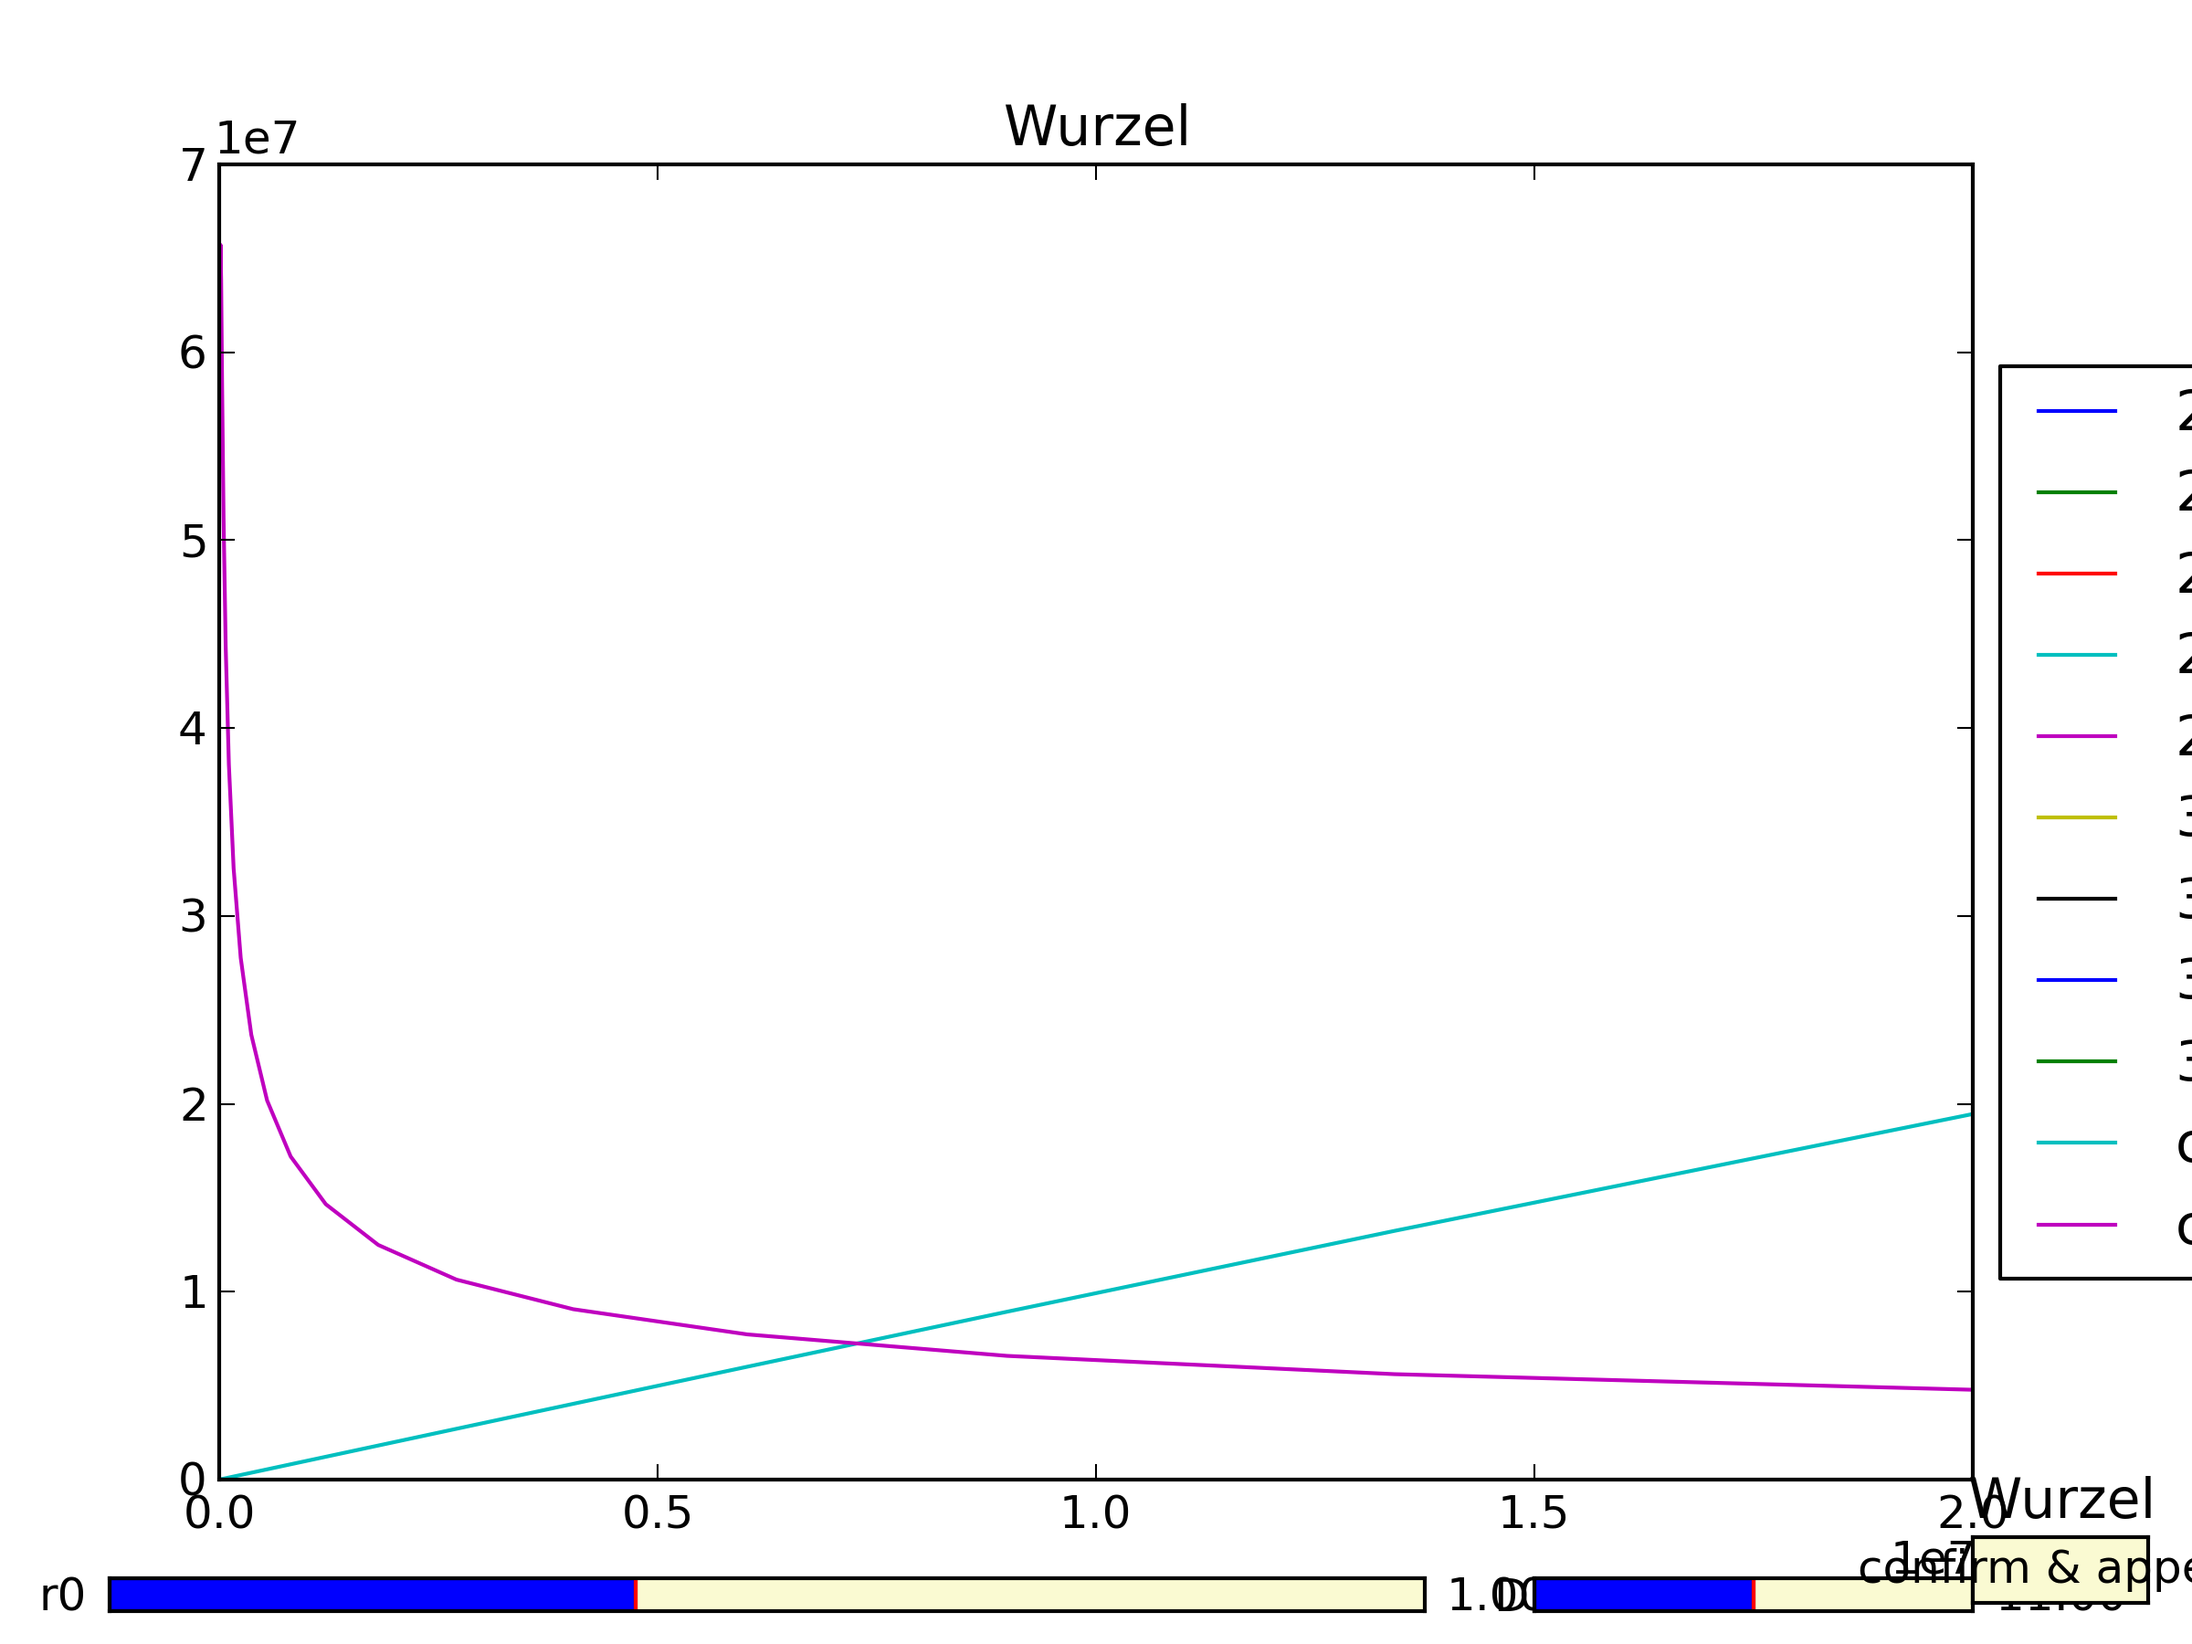
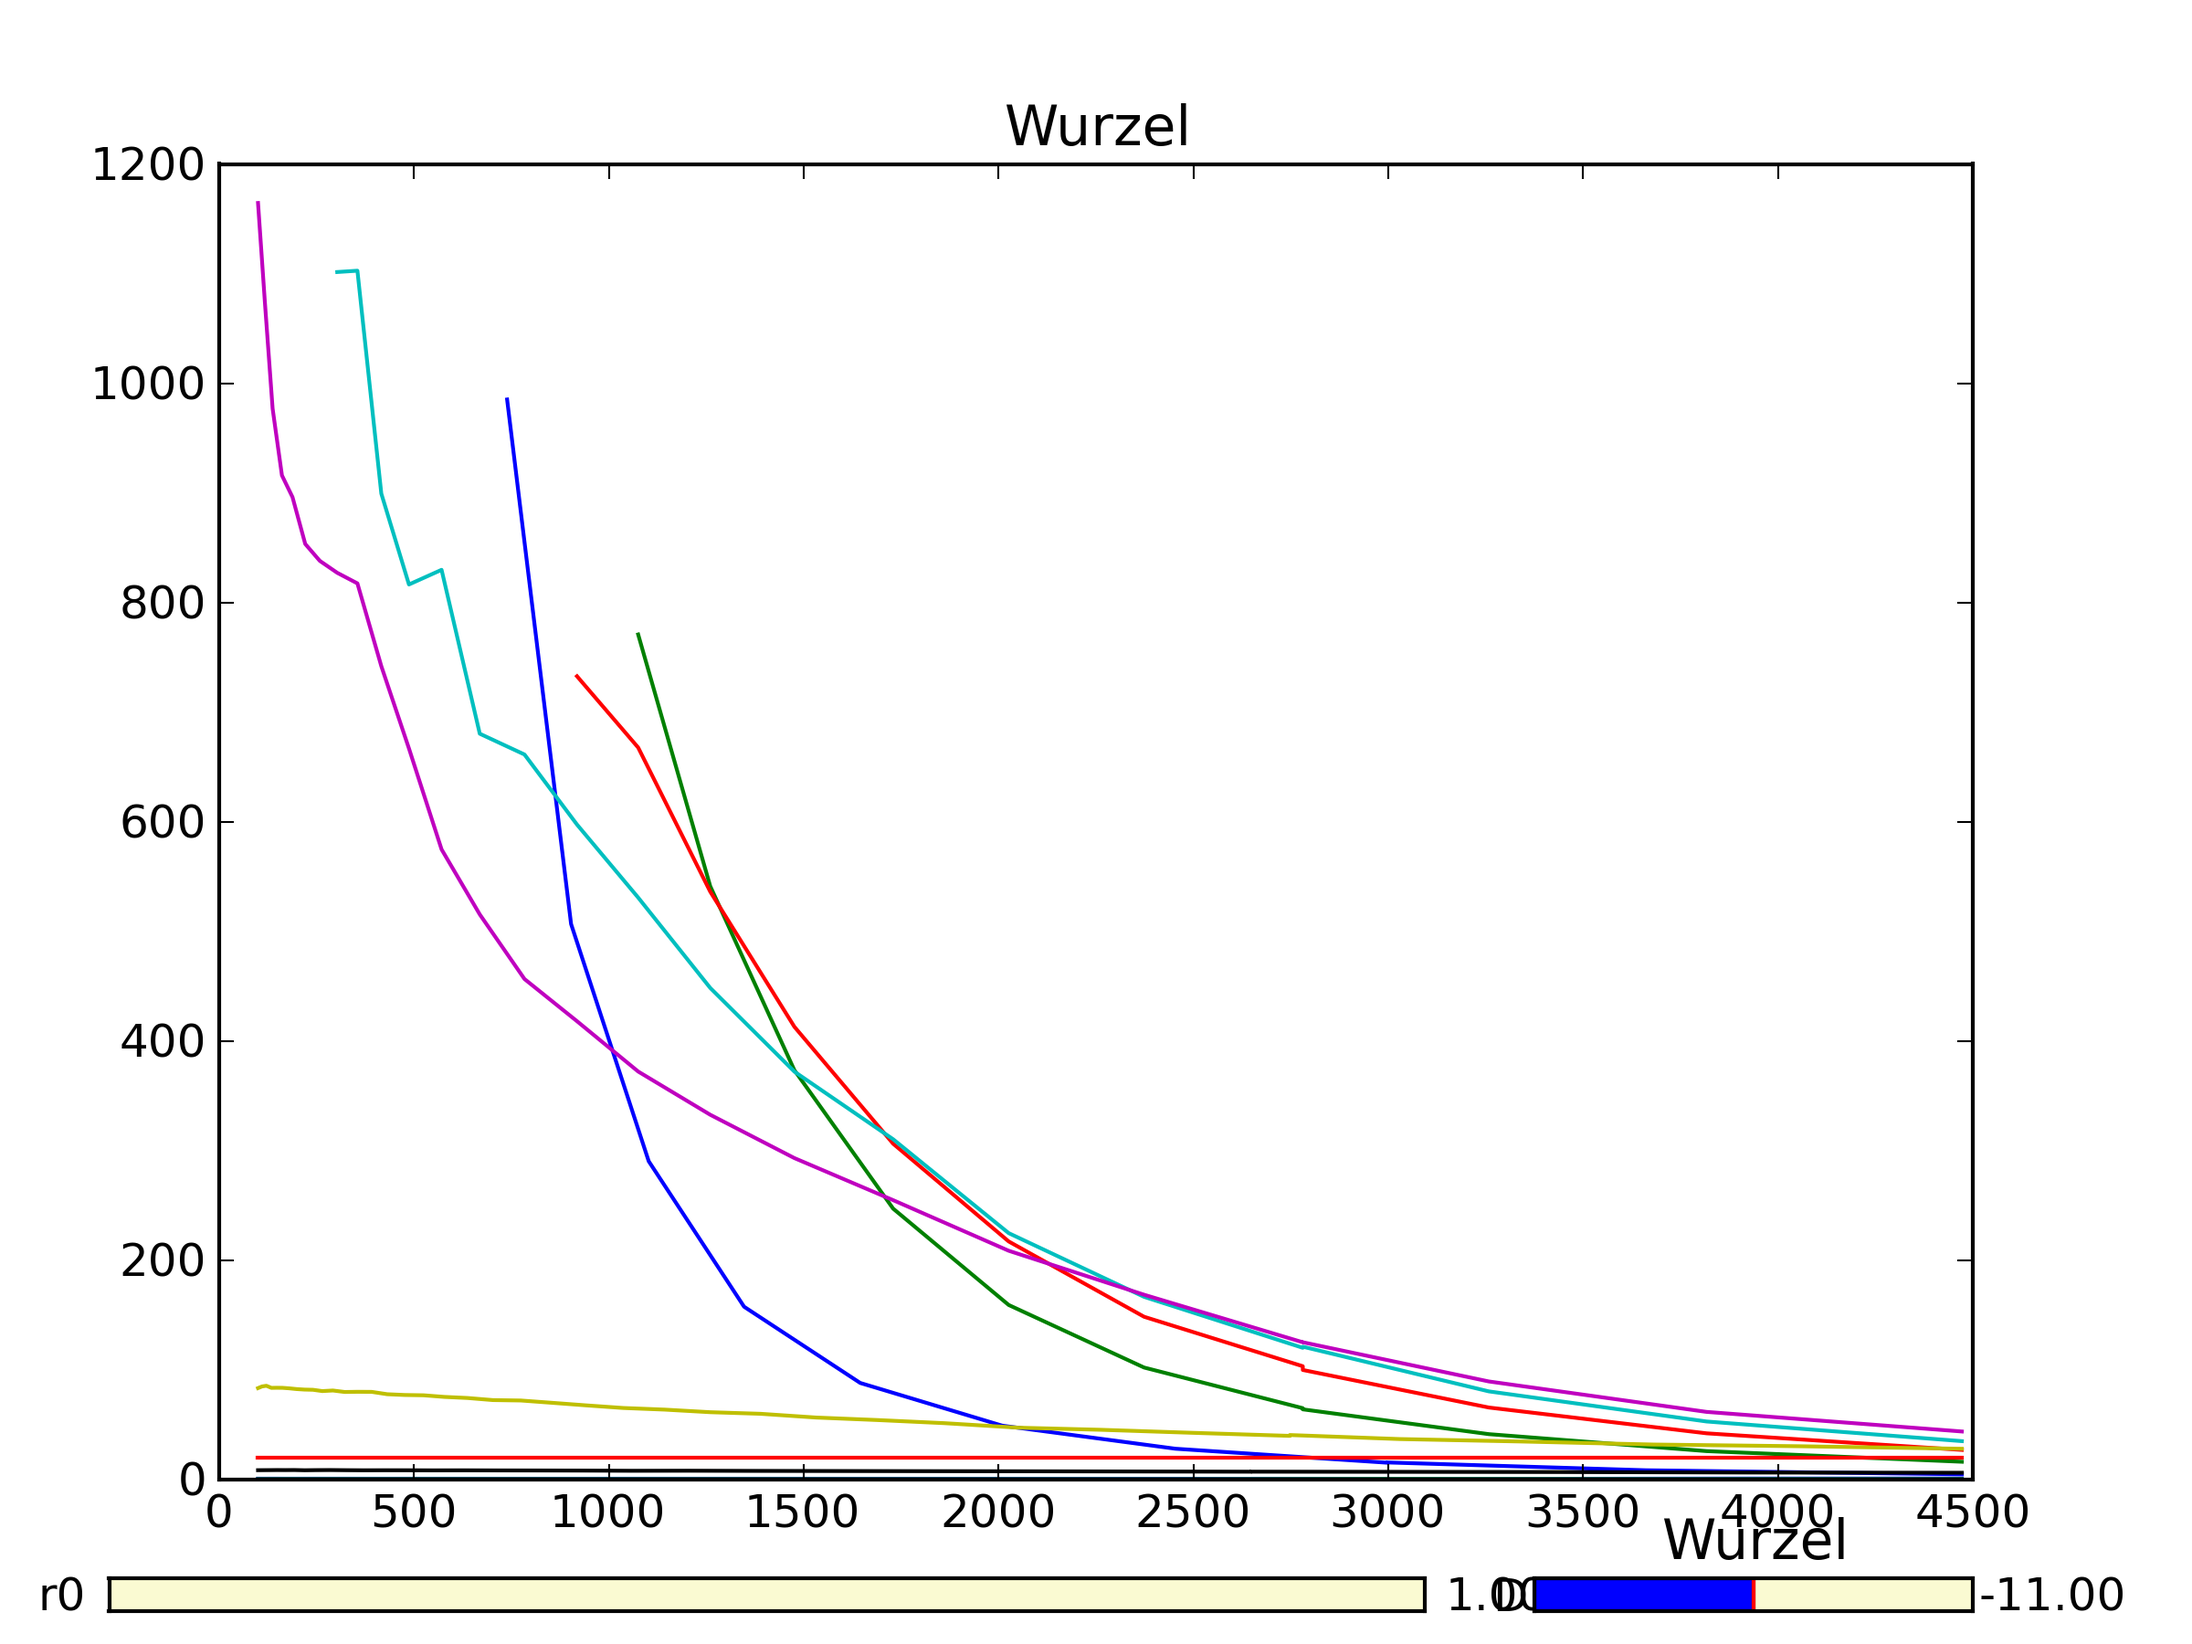
diffusion glycerin

diff --git a/Glyzerin d3 test/interaktiv.py b/Glyzerin d3 test/interaktiv.py
@@ -1,6 +1,7 @@
 #!/usr/bin/python
 import glob
 import re
+import itertools
 import numpy as np
 import scipy as sp
 from scipy.optimize import curve_fit
@@ -10,10 +11,15 @@ from matplotlib.widgets import Slider, Button, CheckButtons
 ###
 ### variablen zuweisen ordner durchfilzen
 ### 
+markers = itertools.cycle(['o','s','v','D','s','^'])
 br=[]
 rf=[]
 ra1=[]
 ch=[]
+zeichneD=[]
+zeichneT=[]
+chiNormHelp=[1,1]
+tauNormHelp=[1,1]
 beta=0.9
 omega=np.logspace(4.0,7.301,20,10)
 tau_c=1.0e-6
@@ -43,15 +49,14 @@ def Chi(omega,tau_c,beta,K_DD):
 def R_1(omega,R1_0,D):
 	mu_0 =1.2566e-6
 	h_quer = 6.626e-34/(2.*np.pi)
-	gamma_H=2.675e8/2/np.pi
-	print gamma_H
+	gamma_H=2.675e8#/2/np.pi
 	N_a=6.022e23
 	n_H=21.0
 	rho=rho_mTCP=1.15*1e6
 	M=M_mTCP=368.4
 	N=n_H*N_a*rho/M
 	B=np.pi/30.*(1.+4.*(2.**0.5))*(mu_0/4./np.pi * h_quer * gamma_H **2)**2 * N
-	print N, omega,R1_0,D,B,R1_0-B/(D**1.5) *omega**0.5
+	#print N, omega,R1_0,D,B,R1_0-B/(D**1.5) *omega**0.5
 	return R1_0-B/(D**1.5) *omega**0.5
 ##die verschiebefunktion fuer die suszibilitaet
 def update(val):
@@ -85,7 +90,7 @@ def update(val):
 	verschiebetemperaturen[int(picker.val)]=temps[int(picker.val)]
 	plt.figure(4)
 	plt.cla()
-	plt.plot(verschiebetemperaturen,verschiebefaktoren)
+	plt.plot(verschiebetemperaturen,verschiebefaktoren,marker=markers.next(),linestyle='None')
 	plt.draw()
 	return slide
 #	fin=open(sef[int(picker.val)],'r')
@@ -120,33 +125,72 @@ def r_ref(r):
 	d=10**float(sd0.val)
 	for i,om in enumerate(omega): 
 		br.append(omega[i]**0.5)
-		ra1.append(R_1(omega[i],r,d))
+		ra1.append(R_1(omega[i],10**r,d))
 	wurzelax.lines[wurzelax.lines.__len__()-1].set_ydata(ra1)
 	plt.draw()
 def d0(d):
 	br=[]
 	ra1=[]
 	rf=[]
-	r=float(sr0.val)
+	r=10**float(sr0.val)
 	d=10**d
+	print d
 	for i,om in enumerate(omega): 
 		br.append(omega[i]**0.5)
 		ra1.append(R_1(omega[i],r,d))
 	wurzelax.lines[wurzelax.lines.__len__()-1].set_ydata(ra1)
 	plt.draw()
 	return d
+def conf(event):
+	d=float(sd0.val)
+	r=10**(float(sr0.val))
+	T=raw_input('gebe temperatur ein')
+	zeichneD.append(d)
+	zeichneT.append(1000/float(T))
+	plt.figure(5)
+	plt.plot(zeichneT,zeichneD)
+	lsout=[]
+	with open('m-tcp_D.dat','w') as fout:
+		fout.close()
+	with open('m-tcp_D.dat','a') as fout:
+		for i, x in enumerate(zeichneD):
+			fout.write(str(1000/zeichneT[i])+'\t'+str(zeichneD[i])+'\n')
+	
+
+
 def normchi(K):
 	plt.figure(1)
+	chiNormHelp[1]=chiNormHelp[0]
+	chiNormHelp[0]=10**K
 	for line in ax.lines:
 		linex=line.get_xdata()
 		liney=line.get_ydata()
-		for y in liney: y=y/(10**K)
+		for i, y in enumerate(liney): 
+			liney[i]=y/(10**K)*chiNormHelp[1]
 		line.set_ydata(liney)
+	ax.relim()
+	ax.autoscale_view(True,True,True)
+	plt.draw()
+def normtau(val):##verschiebe die daten auf der x achse
+	plt.figure(1)
+	tauNormHelp[1]=tauNormHelp[0]
+	tauNormHelp[0]=10**val
+	for line in ax.lines:
+		linex=line.get_xdata()
+		liney=line.get_ydata()
+		for i, x in enumerate(linex): 
+			linex[i]=x/(10**val)*tauNormHelp[1]
+		line.set_xdata(linex)
+	ax.relim()
+	ax.autoscale_view(True,True,True)
+	plt.draw()
+	
+
 def reset(event):
 	stau_c.reset()
 
 plt.figure(1)
-ax = plt.axes([0.1,0.2,0.55,0.7])
+ax = plt.axes([0.1,0.2,0.85,0.7])
 plt.xscale('log')
 plt.yscale('log')
 plt.xlabel('omega')
@@ -161,13 +205,19 @@ resetax =plt.axes([0.8,0.025,0.1,0.04])
 button = Button(resetax,'reset',color=axcolor,hovercolor='0.975')
 axK = plt.axes([0.1,0.05,0.3,0.02],axisbg=axcolor)
 sK=Slider(axK,'K',8,12,valinit=9)
+axOm = plt.axes([0.1,0.02,0.3,0.02],axisbg=axcolor)
+sOm = Slider(axOm,'normY',2,10,valinit=9)
+
+
 
 plt.figure(2)
 wurzelax=plt.axes([0.1,0.1,0.8,0.8])
 axr0=plt.axes([0.05,0.02,0.6,0.02],axisbg=axcolor)
-sr0=Slider(axr0,'r0',500,2000,valinit=1.0)
+sr0=Slider(axr0,'r0',-1,4,valinit=1.0)
 axD=plt.axes([0.7,0.02,0.2,0.02],axisbg=axcolor)
 sd0=Slider(axD,'D',-15,-7,valinit=-11)
+confax =plt.axes([0.9,0.025,0.08,0.04])
+bconf = Button(confax,'confirm & append',color=axcolor,hovercolor='0.975')
 
 plt.figure(3)
 ##wird spaeter bemalt
@@ -178,13 +228,20 @@ plt.title('verschiebefaktoren in der suszeptiblitaet')
 plt.xlabel('T')
 plt.ylabel('schiebefaktoren a.u.')
 
+plt.figure(5)
+diffax=plt.axes([0.15,0.15,0.8,0.8])
+plt.title('Diffusion')
+plt.xlabel('1000/T $[K^{-1}]$')
+plt.ylabel(r'lg(D) $[\frac{m^2}{s}]$')
 ##interaktion mit der gui
 picker.on_changed(pick)
 button.on_clicked(reset)
 stau_c.on_changed(update)
 sK.on_changed(normchi)
+sOm.on_changed(normtau)
 sr0.on_changed(r_ref)
 sd0.on_changed(d0)
+bconf.on_clicked(conf)
 
 sefdata=[]
 temps=[]
@@ -218,6 +275,7 @@ for filename in sef:
 		relativefile.append(liste[6])
 	fin2=open(relativefile[1],'r')
 	sdfdata=fin2.readlines()
+	print filename, zone
 	temp=sdfdata[
 			sdfdata.index(
 				'ZONE=\t'+str(zone[
@@ -231,7 +289,7 @@ for filename in sef:
 		chi.append(r1[i]*brlx[i])
 	plt.figure(1)
 	plt.title(relativefile[0][0:-9])
-	plt.axes([0.1,0.2,0.55,0.7])
+	plt.axes([0.1,0.2,0.85,0.7])
 	#plt.plot(brlx,map(lambda x:Chi(x,1e-6,0.7,1e8),brlx))
 	brlx=np.array(brlx)
 	chi=np.array(chi)
@@ -248,13 +306,16 @@ for filename in sef:
 			)
 	plt.plot(brlx,chi,
 			label=temp+' K',
-			marker='o',linestyle='None')
+			marker=markers.next(),linestyle='None')
+	plt.legend()
 	plt.figure(2)
 	plt.title('Wurzel')
 	wurzelax=plt.axes([0.1,0.1,0.8,0.8])
 	for i, b in enumerate(brlx):
 		brlx[i]=brlx[i]**0.5
-	plt.plot(brlx,r1,label=relativefile[0])
+	plt.plot(brlx,r1,label=temp+' K')
+
+
 	plt.figure(3)
 	plt.title('Rate')
 	plt.xscale('log')
@@ -269,8 +330,7 @@ print (map(lambda x: x**0.5,omega),map(lambda y:R_1(y,2,1e-10),wurzelomega))
 
 plt.figure(2)
 plt.plot(wurzelomega,map(lambda x: R_1(x,20,10e-9),omega))
-plt.figure(1)
-plt.plot(omega, Chi(omega,1e-6,0.7,1e8),label='chi mit tau_c =1e-6')
+plt.legend()
 plt.plot(omega, Chi(omega,1e-8,0.7,1e8),label='chi mit tau_c =1e-8')
 plt.plot(omega, Chi(omega,1e-4,0.7,1e8),label='chi mit tau_c =1e-4')
 plt.legend(loc='center left',bbox_to_anchor=(1,0.5))
